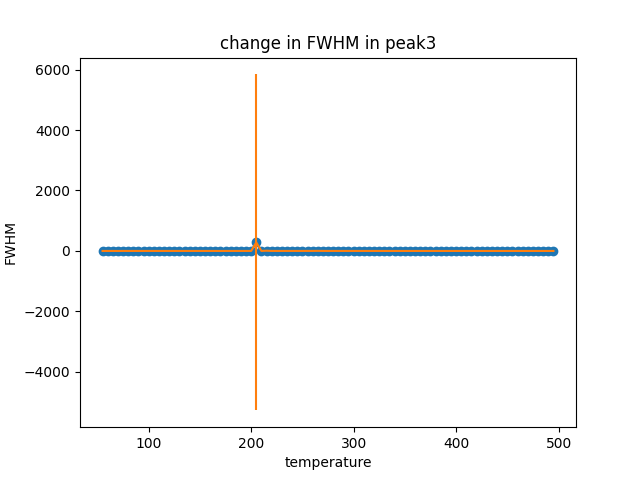
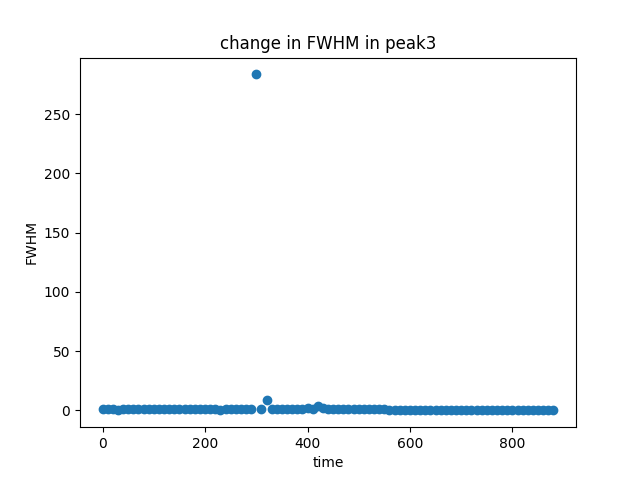
add lable to x and y axis

diff --git a/method.py b/method.py
@@ -320,6 +320,8 @@ def gaussian_fitting_plot(two_theta,intensity,x_interval,set_pars,baseline_pars)
     plt.plot(x_interval_value, baseline_subtracted,label='after background subtraction')
     fitting,_ = gaussian_fitting_curve(x_interval_value,baseline_subtracted,x_interval,set_pars)
     plt.plot(x_interval_value, fitting, '--', label='fitting')
+    plt.xlabel(r'$2\theta$')
+    plt.ylabel("intensity")
     plt.legend()
     # plt.savefig(f"{name}_plot.png")
     plt.show()
@@ -345,6 +347,8 @@ def gaussian_fitting_plot_all(two_theta,intensity,x_interval,set_pars,baseline_p
     for i in range(len(intensity)):
         plt.title('Gaussian fitting for dataset %d' %i)
         gaussian_fitting_plot(two_theta,intensity[i],x_interval,set_pars,baseline_pars)
+        plt.xlabel(r'$2\theta$')
+        plt.ylabel("intensity")
         plt.show()
 
 
@@ -364,6 +368,8 @@ def gaussian_plot_error(two_theta,intensity,x_interval,set_pars,baseline_pars):
     # plt.plot(x_interval_value, fitting, '--', label='fitting')
     error = abs(baseline_subtracted - fitting)
     plt.plot(x_interval_value,error,':', label='error')
+    plt.xlabel(r'$2\theta$')
+    plt.ylabel("intensity")
     plt.legend()
     plt.savefig('./fitting result/Gaussian fitting result')
     plt.show()
@@ -426,6 +432,8 @@ def lorentzian_fitting_plot(two_theta,intensity,x_interval,set_pars,baseline_par
     plt.plot(x_interval_value, baseline_subtracted,label='after background subtraction')
     fitting,_ = lorentzian_fitting_curve(x_interval_value,baseline_subtracted,x_interval,set_pars)
     plt.plot(x_interval_value, fitting, '--', label='fitting')
+    plt.xlabel(r'$2\theta$')
+    plt.ylabel("intensity")
     plt.legend()
     # plt.savefig(f"{name}_plot.png")
     plt.show()
@@ -437,6 +445,8 @@ def lorentzian_fitting_plot_all(two_theta,intensity,x_interval,set_pars,baseline
     for i in range(len(intensity)):
         plt.title('Lorentzian fitting for dataset %d' %i)
         lorentzian_fitting_plot(two_theta,intensity[i],x_interval,set_pars,baseline_pars)
+        plt.xlabel(r'$2\theta$')
+        plt.ylabel("intensity")
         plt.show()
 
 
@@ -455,6 +465,8 @@ def lorentzian_plot_error(two_theta,intensity,x_interval,set_pars,baseline_pars)
     # plt.plot(x_interval_value, fitting, '--', label='fitting')
     error = abs(baseline_subtracted - fitting)
     plt.plot(x_interval_value,error,':', label='error')
+    plt.xlabel(r'$2\theta$')
+    plt.ylabel("intensity")
     plt.legend()
     plt.savefig('./fitting result/Lorentzian fitting result')
     plt.show()
@@ -515,6 +527,8 @@ def PseudoVoigt_fitting_plot(two_theta,intensity,x_interval,set_pars,baseline_pa
     plt.plot(x_interval_value, baseline_subtracted,label='after background subtraction')
     fitting,_ = PseudoVoigt_fitting_curve(x_interval_value,baseline_subtracted,x_interval,set_pars)
     plt.plot(x_interval_value, fitting, '--', label='fitting')
+    plt.xlabel(r'$2\theta$')
+    plt.ylabel("intensity")
     plt.legend()
     # plt.savefig(f"{name}_plot.png")
     plt.show()
@@ -526,6 +540,8 @@ def PseudoVoigt_fitting_plot_all(two_theta,intensity,x_interval,set_pars,baselin
     for i in range(len(intensity)):
         plt.title('PseudoVoigt fitting for dataset %d' %i)
         PseudoVoigt_fitting_plot(two_theta,intensity[i],x_interval,set_pars,baseline_pars)
+        plt.xlabel(r'$2\theta$')
+        plt.ylabel("intensity")
         plt.show()
 
 
@@ -544,6 +560,8 @@ def PseudoVoigt_plot_error(two_theta,intensity,x_interval,set_pars,baseline_pars
     # plt.plot(x_interval_value, fitting, '--', label='fitting')
     error = abs(baseline_subtracted - fitting)
     plt.plot(x_interval_value,error,':', label='error')
+    plt.xlabel(r'$2\theta$')
+    plt.ylabel("intensity")
     plt.legend()
     plt.savefig('./fitting result/PseudoVoigt fitting result')
     plt.show()
@@ -711,14 +729,14 @@ def change_fwhm(csvFile):
     readData = pd.read_csv(tPath)   
     fwhm = readData.iloc[:,6].tolist()  
     # time = list(range(0,220,10))  
-    # time = list(range(0,len(fwhm)*10,10)) 
-    temperature = list(range(55,500,5) )      
+    time = list(range(0,len(fwhm)*10,10)) 
+    # temperature = list(range(55,500,5) )      
     error = readData.iloc[:,7].tolist()
-    plt.plot(temperature, fwhm)  
-    plt.scatter(temperature, fwhm)          
-    plt.errorbar(temperature, fwhm, yerr=error)
+    # plt.plot(time, fwhm)  
+    plt.scatter(time, fwhm)          
+    # plt.errorbar(time, fwhm, yerr=error)
     plt.title("change in FWHM in {}".format(csvPre))              
-    plt.xlabel("temperature")                
+    plt.xlabel("time")                
     plt.ylabel("FWHM") 
     plt.savefig("./change in FWHM and height/change in FWHM in {}".format(csvPre))                 
     plt.show()
@@ -738,18 +756,18 @@ def change_height(csvFile):
     readData = pd.read_csv(tPath)
     height = readData.iloc[:,8].tolist()  
     # time = list(range(0,220,10)) 
-    # time = list(range(0,len(height)*10,10))
-    temperature = list(range(55,500,5) )         
+    time = list(range(0,len(height)*10,10))
+    # temperature = list(range(55,500,5) )         
     error = readData.iloc[:,9].tolist()
     # plt.plot(temperature, height)
-    plt.scatter(temperature, height,s=2)   
+    plt.scatter(time, height)   
     # plt.errorbar(time, height, yerr=error, fmt = 'o',markersize='2')    
     # plt.errorbar(temperature, height, yerr=error, fmt = 'o',markersize='2')
     
     plt.title("change in height in {}".format(csvPre))              
-    plt.xlabel("temperature")                
+    plt.xlabel("time")                
     plt.ylabel("height") 
-    plt.ylim(-500,2000)
+    # plt.ylim(-500,2000)
     plt.savefig("./change in FWHM and height/change in height in {}".format(csvPre))                 
     plt.show() 
 

diff --git a/main.py b/main.py
@@ -51,12 +51,12 @@ def main():
     # x_interval = [46.5,48.5] #（110）
     # set_pars = [[47.3,1,500],[0,0,0]]
     # baseline_pars = [10000,0.0001,500]
-    # #all
-    # x_interval = [27,48.5]
-    # set_pars = [[28.4,1,940],[30,1,1200],[44.8,2,800],[47.3,1,500]]
-    # baseline_pars = [10000,0.0001,-1]
+    #all
+    x_interval = [27,48.5]
+    set_pars = [[28.4,1,940],[30,1,1200],[44.8,2,800],[47.3,1,500]]
+    baseline_pars = [10000,0.0001,-1]
     # print(gaussian_fit_index(two_theta,intensity[dataset_number],x_interval,set_pars,baseline_pars))
-    # gaussian_fitting_plot(two_theta,intensity[66],x_interval,set_pars,baseline_pars)
+    gaussian_fitting_plot(two_theta,intensity[66],x_interval,set_pars,baseline_pars)
     # gaussian_fitting_plot_all(two_theta,intensity,x_interval,set_pars,baseline_pars)
     # lorentzian_fitting_plot_all(two_theta,intensity,x_interval,set_pars,baseline_pars)
     # PseudoVoigt_fitting_plot_all(two_theta,intensity,x_interval,set_pars,baseline_pars)
@@ -64,8 +64,8 @@ def main():
     # gaussian_plot_error(two_theta,intensity[dataset_number],x_interval,set_pars,baseline_pars)
     # lorentzian_plot_error(two_theta,intensity[dataset_number],x_interval,set_pars,baseline_pars)
     # PseudoVoigt_plot_error(two_theta,intensity[dataset_number],x_interval,set_pars,baseline_pars)
-    toCsv(two_theta,intensity,x_interval,set_pars,baseline_pars)
-    # all_change_fwhm()
+    # toCsv(two_theta,intensity,x_interval,set_pars,baseline_pars)
+    all_change_fwhm()
     all_change_height()
     # change_height("peak2.csv")
 
